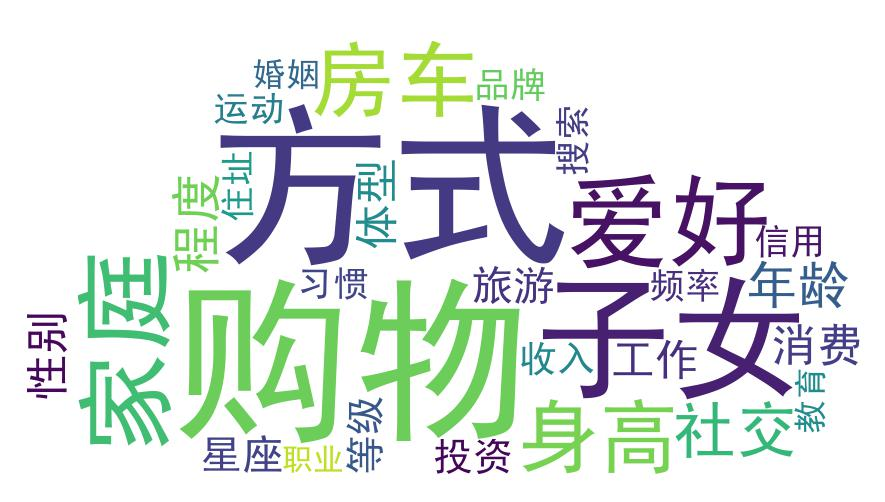
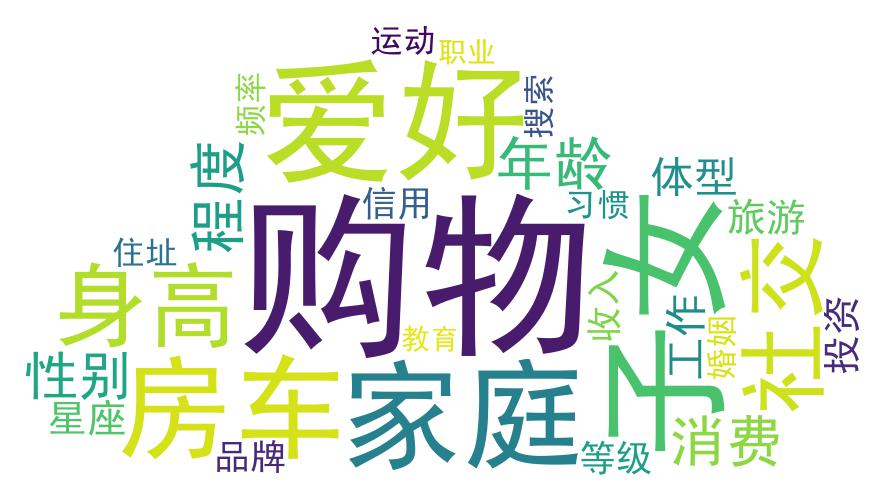
upd

diff --git a/data_analysis/word_cloud/gen_word_cloud.py b/data_analysis/word_cloud/gen_word_cloud.py
@@ -28,7 +28,7 @@ def create_word_cloud(f):
      plt.show()
 
 f = '''性别、年龄、星座、身高、教育程度、体型、家庭住址、房车、婚姻、子女、收入、职业\
-购物习惯、消费等级、信用、频率、搜索、运动、投资、爱好、社交方式、旅游、购物品牌、工作方式'''
+购物习惯、消费等级、信用、频率、搜索、运动、投资、爱好、社交、旅游、购物品牌、工作'''
 
 
 if __name__ == "__main__":
